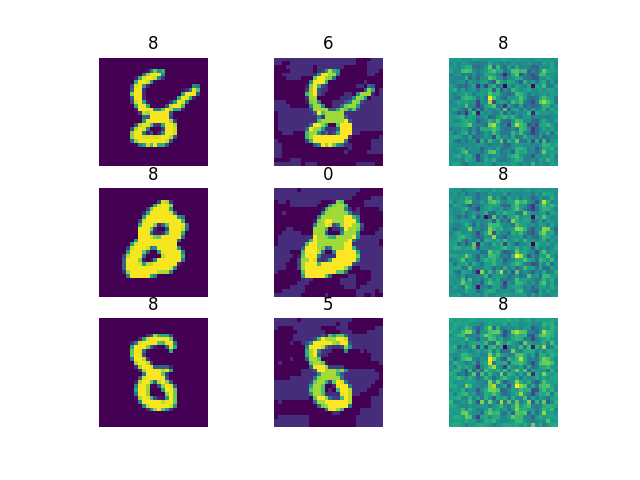
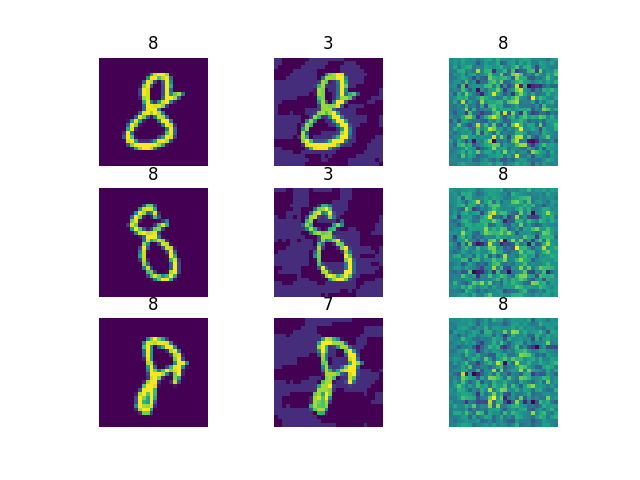
update

diff --git a/run_demo_earlier_methods.py b/run_demo_earlier_methods.py
@@ -43,8 +43,8 @@ logger.addHandler(handler)
 
 # load mnist data
 x_train, y_train, x_test, y_test = load_mnist()
-x_test = x_test[0:100]
-y_test = y_test[0:100]
+x_test = x_test[0:1000]
+y_test = y_test[0:1000]
 
 # load mnist CNN model in Keras
 logger.info('MNIST Dataset')
@@ -178,23 +178,17 @@ fooling_rate = np.sum(preds_X_def != np.argmax(y_test, axis=1)) / y_test.shape[0
 logger.info('Fooling rate after Jpeg Compression: %.2f%%', (fooling_rate  * 100))
 img_plot(y_test, preds_x_test, preds_X_adv, preds_X_def, x_test, X_adv, X_def, "JPEG_compression")
 
-# Inverse GAN
-#gan, inverse_gan, sess = get_gan_inverse_gan_ft()
-model_name = "model-dcgan"
-model_path = "./models/tensorflow1/"
-
-lr = 0.0002
-latent_enc_len = 100
-gen_tf, z_ph, gen_loss, gen_opt_tf, disc_loss_tf, disc_opt_tf, x_ph = build_gan_graph(lr, latent_enc_len)
-enc_tf, image_to_enc_ph, latent_enc_loss, enc_opt = build_inverse_gan_graph(lr, gen_tf, z_ph, latent_enc_len)
+# Inverse GAN https://arxiv.org/abs/1911.10291
+# note: Inverse GAN not trained well.
+# run adversarial-robustness-toolbox/utils/resources/create_inverse_gan_models.py
+# for obtaining (training) Inverse GAN model.
 sess = tf.Session()
-saver = tf.train.import_meta_graph("./models/tensorflow1/model-dcgan.meta") 
-saver.restore(sess, "./models/tensorflow1/model-dcgan")
+sess.run(tf.global_variables_initializer())
+gen_tf, enc_tf, z_ph, image_to_enc_ph = load_model(sess, "model-dcgan", "./trained_model/inverseGAN/")
 gan = TensorFlowGenerator(input_ph=z_ph, model=gen_tf, sess=sess,)
 inverse_gan = TensorFlowEncoder(input_ph=image_to_enc_ph, model=enc_tf, sess=sess,)
-
 preproc = InverseGAN(sess=sess, gan=gan, inverse_gan=inverse_gan)
-X_def = preproc(X_adv, maxiter=1)
+X_def = preproc(X_adv, maxiter=1000)
 preds_X_def = np.argmax(classifier.predict(X_def), axis=1)
 fooling_rate = np.sum(preds_X_def != np.argmax(y_test, axis=1)) / y_test.shape[0]
 logger.info('Fooling rate after Inverse GAN: %.2f%%', (fooling_rate  * 100))
